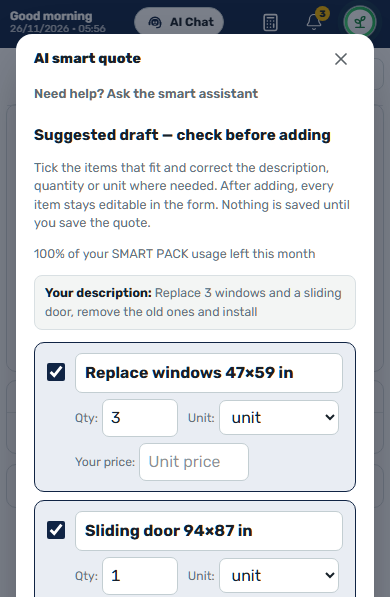
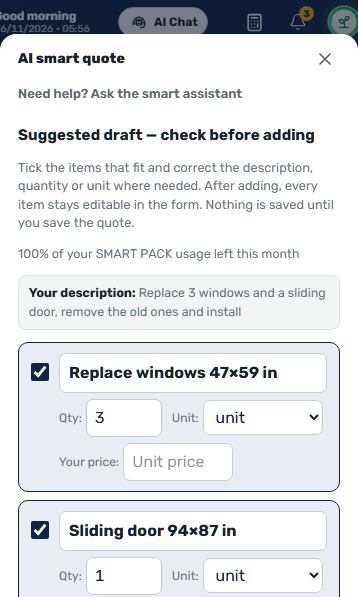
growthfix2-1126: shekel amounts with two decimals on the comparison and capability pages; step 2 screen cropped to the AI window
Owner console 2026-11-26 (typed): "מאשר את שחרור התיקון השני: שתי ספרות אחרי הנקודה בסכומי השקל בדפי ההשוואה והיכולת וחיתוך צילום צעד 2, ושחרור עד הלייב"
(after the LIVE check of PR #251, agent a5cfcb0f76c50e0c2): IRON-ILS-001 - ₪30.00, ₪10.00, ₪102.00 (the landing format); the step 2 screens
(HE + EN) cropped exactly to the window (x 16-373), so no letter of the dimmed page behind it is cut at the edge (measured 0 px outside).

diff --git a/src/pages/MarketingPages.jsx b/src/pages/MarketingPages.jsx
@@ -22,7 +22,7 @@ const MARKETING_PATHS = Object.freeze({
 });
 const UPDATED = '26/11/2026';
 // the step screens, each cropped at a text-free row (no line cut at the bottom edge - LIVE check 26/11): their heights at 390 px wide
-const SHOT_H = { he: [524, 578, 618], en: [562, 597, 566] }; // HE and EN end at the same row: after "Upload a file", after item 2's qty row, after the total
+const SHOT_H = { he: [524, 578, 618], en: [562, 597, 566] }; // step 2 is 358 wide: cropped exactly to the AI window, so no letter of the dimmed page behind it is cut at the edge // HE and EN end at the same row: after "Upload a file", after item 2's qty row, after the total
 
 const COMPARE = {
   he: {
@@ -37,7 +37,7 @@ const COMPARE = {
       ['אישור הלקוח', 'חתימה דיגיטלית מהטלפון', 'הדפסה וסריקה, או "מאשר" בהודעה'],
       ['שינוי אחרי שליחה', 'הקישור מתעדכן עד שהלקוח חותם', 'שולחים קובץ חדש ומקווים שיפתח את הנכון'],
       ['מעקב', 'רשימה אחת עם מצב כל הצעה: טיוטה, נשלחה, נצפתה, אושרה', 'תיקיות, קבצים וגלילה בשיחות'],
-      ['עלות', <>10 הצעות חינם, ואז <bdi dir="ltr">₪30</bdi> לחודש כולל מע״מ</>, 'כלים שכבר יש לכם'],
+      ['עלות', <>10 הצעות חינם, ואז <bdi dir="ltr">₪30.00</bdi> לחודש כולל מע״מ</>, 'כלים שכבר יש לכם'],
     ],
     whenH: 'מה מתאים למי', oldOkH: 'וורד או אקסל מספיקים כש...', oldOk: ['שולחים הצעה אחת לכמה חודשים', 'לא צריך חתימה של הלקוח', 'לא חשוב לדעת אם הלקוח פתח'],
     tkH: 'TEKANGO שווה את זה כש...', tk: ['שולחים כמה הצעות בשבוע', 'רוצים חתימה של הלקוח בלי הדפסות', 'רוצים לראות מי פתח ומי מחכה לטלפון', 'עובדים מהטלפון, גם בשטח'],
@@ -80,7 +80,7 @@ const SMART = {
       ['אפשר לדבר במקום להקליד?', 'כן. לוחצים על המיקרופון ואומרים את העבודה.'],
       ['מה קורה אם הטיוטה לא מדויקת?', 'מסמנים רק את השורות שמתאימות, ואת השאר מוחקים או מתקנים בעורך. אפשר גם ללחוץ על "תיאור אחר" ולנסות שוב.'],
       ['האם הלקוח רואה את הטיוטה?', 'לא. ההצעה נשלחת ללקוח רק כשאתם שולחים אותה.'],
-      ['כמה זה עולה?', <>ההצעה החכמה היא חלק מ&quot;חכם פלוס&quot;, תוספת לבחירה: <bdi dir="ltr">₪10</bdi> לחודש, או <bdi dir="ltr">₪102</bdi> לשנה במנוי שנתי. בשבעת הימים החינמיים היא כלולה. בחלון רואים כמה אחוזים נשארו לכם מהשימוש החודשי.</>],
+      ['כמה זה עולה?', <>ההצעה החכמה היא חלק מ&quot;חכם פלוס&quot;, תוספת לבחירה: <bdi dir="ltr">₪10.00</bdi> לחודש, או <bdi dir="ltr">₪102.00</bdi> לשנה במנוי שנתי. בשבעת הימים החינמיים היא כלולה. בחלון רואים כמה אחוזים נשארו לכם מהשימוש החודשי.</>],
     ],
     endH: 'רוצים לנסות?', endP: 'פותחים חשבון בחינם ומכינים את ההצעה הראשונה.',
   },
@@ -208,7 +208,7 @@ export function SmartQuoteFeaturePage({ lang = 'he' }) {
                   <span aria-hidden="true" style={{ flexShrink: 0, width: '30px', height: '30px', borderRadius: '50%', background: navy, color: '#ffffff', display: 'inline-flex', alignItems: 'center', justifyContent: 'center', fontSize: '15px', fontWeight: 800 }}>{i + 1}</span>{h}
                 </h3>
                 <p style={{ margin: 0, color: TOOLS.textSecondary }}>{p}</p>
-                <img src={`/assets/features/smart-quote-step${i + 1}-${lang}.png`} alt={alt} width={390} height={SHOT_H[lang][i]} loading="lazy" decoding="async" className="fp-shot" style={{ borderRadius: '10px', border: `1px solid ${TOOLS.border}` }} />
+                <img src={`/assets/features/smart-quote-step${i + 1}-${lang}.png`} alt={alt} width={i === 1 ? 358 : 390} height={SHOT_H[lang][i]} loading="lazy" decoding="async" className="fp-shot" style={{ borderRadius: '10px', border: `1px solid ${TOOLS.border}` }} />
               </li>
             ))}
           </ol>

diff --git a/src/growth1126.test.jsx b/src/growth1126.test.jsx
@@ -77,7 +77,7 @@ describe('the VAT (Israel) / sales-tax (international) calculator', () => {
 describe('the comparison page and the smart-quote capability page', () => {
   it('no competitor names; the facts of the live plans; English without shekel / VAT / credit card', () => {
     mount(<ComparePage lang="he" />);
-    expect(document.body.textContent).toContain('₪30 לחודש כולל מע״מ');
+    expect(document.body.textContent).toContain('₪30.00 לחודש כולל מע״מ');
     cleanup(); mount(<ComparePage lang="en" />);
     expect(document.body.textContent).toContain('$18 a month');
     expect(document.body.textContent).not.toMatch(/₪|bVATb|credit card/i);
